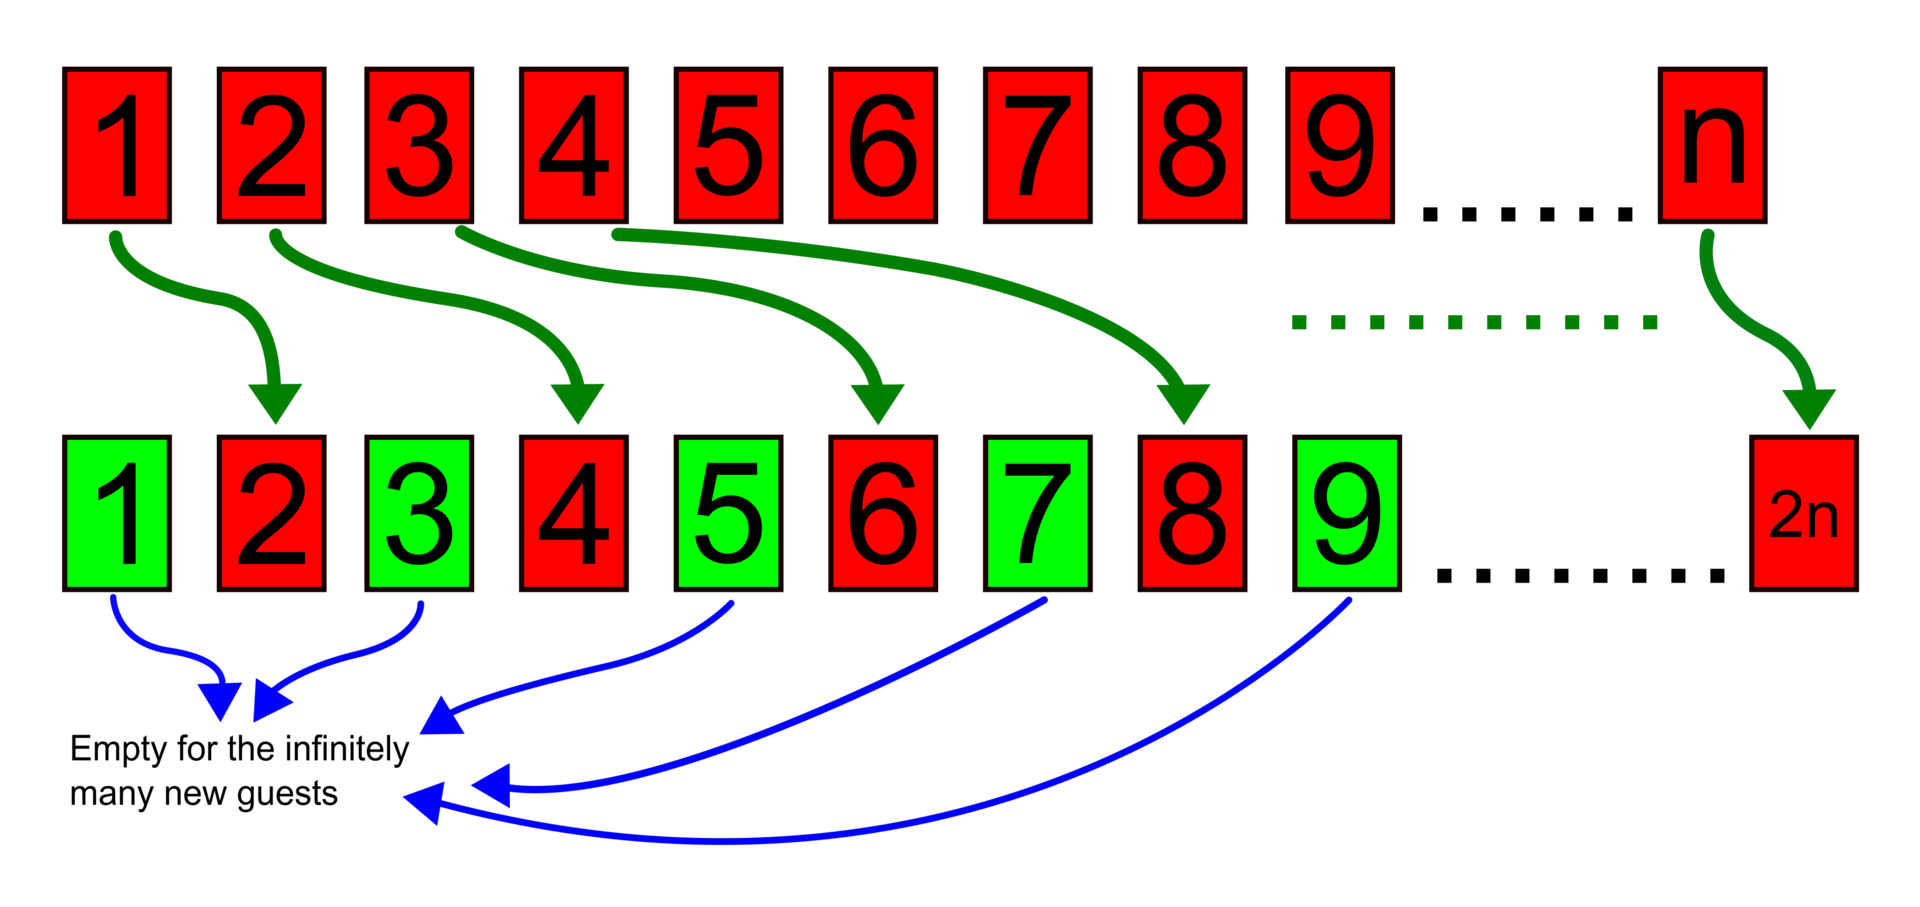
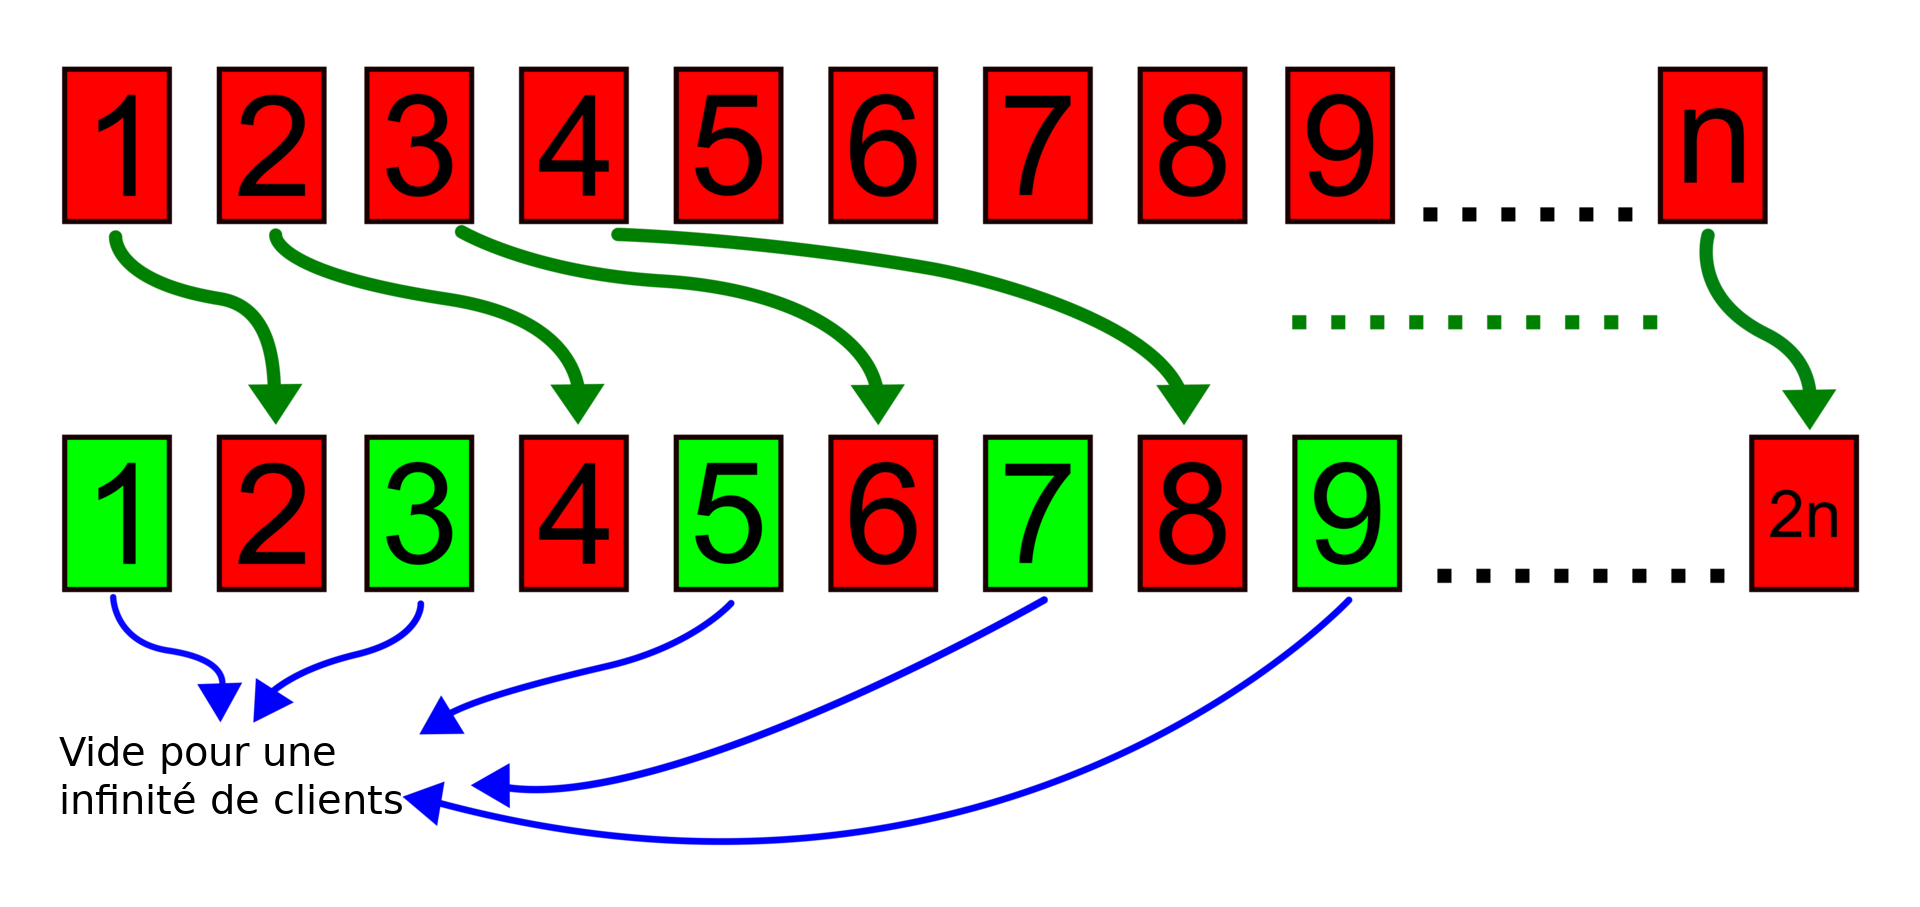
Traduction de l'image hotel de Hilbert, bsc
squash! Traduction de l'image hotel de Hilbert et petites capitales.

Changed region(s): [[0.0312, 0.8026, 0.2188, 0.8953]]

diff --git a/main.tex b/main.tex
@@ -390,11 +390,11 @@ Si $N+1$ est premier, alors notre liste est incomplète. Dans le cas contraire, 
 Comme on l'a vu ci-avant, l'infini nous réserve quelques surprises. Il est donc judicieux de considérer une famille plus large d'ensemble : les ensembles \emph{dénombrables} et \emph{au plus dénombrables}. 
 \part{Dénombrabilité}
 \chapter{\texorpdfstring{\'Etude de 2$\NN$, $\ZZ$, $\QQ$}{Dénombrabilité : Étude de N,2N,Z, et Q}} 
-\section{Introduction : le paradoxe de Hilbert}
+\section{Introduction : le paradoxe de \bsc{Hilbert}}
 
 Si on définit l'infini comme la cardinal de $\NN$, quel est le cardinal de $E= \{-1, 0, 1, 2, \dots\}$ ? Intuitivement on se dit que $E$ est infini, mais est-il plus grand que $\NN$ ? Il nous manque un moyen de comparer les infinis.
 
-Pour introduire le problème d'une manière concrète, on peut avoir recours au paradoxe de l'hôtel de Hilbert. Imaginons qu'on ait un hôtel avec une infinité de chambres numérotées par les entiers naturels. Les chambres sont toutes occupées. On place un hôte par chambre. Cependant, si un nouveau client arrive, il suffit que l'hôtelier, fin mathématicien, demande au client dans la chambre $n$ de se déplacer dans la chambre $n+1$ (le client présent dans la chambre 0 peut aller dans la chambre 1, le client présent dans la chambre 1 va dans la chambre 2, \dots) Le nouveau client peut s'installer dans l'hôtel.
+Pour introduire le problème d'une manière concrète, on peut avoir recours au paradoxe de l'hôtel de \bsc{Hilbert}. Imaginons qu'on ait un hôtel avec une infinité de chambres numérotées par les entiers naturels. Les chambres sont toutes occupées. On place un hôte par chambre. Cependant, si un nouveau client arrive, il suffit que l'hôtelier, fin mathématicien, demande au client dans la chambre $n$ de se déplacer dans la chambre $n+1$ (le client présent dans la chambre 0 peut aller dans la chambre 1, le client présent dans la chambre 1 va dans la chambre 2, \dots) Le nouveau client peut s'installer dans l'hôtel.
 
 Imaginons maintenant qu'une infinité de nouveaux clients arrive à l'hôtel. Pour les accueillir, l'hôtelier peut demander au client dans la chambre $n$ d'aller dans la chambre $2n$. Ainsi toutes les chambres portant un numéro impair sont libérées et tous les nouveaux clients sont logés.
 
@@ -403,7 +403,7 @@ Ce paradoxe introduit des résultats contre-intuitifs quant à la cardinalité d
 \begin{figure}[htb]
     \centering
     \includegraphics[width=0.7\textwidth,keepaspectratio]{hotel de hilbert.png}
-    \caption{Hôtel de Hilbert}
+    \caption{Hôtel de \bsc{Hilbert}}
     \label{fig:hotel_hilbert}
 \end{figure}
 \clearpage
